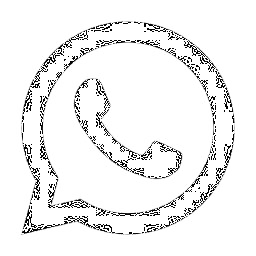
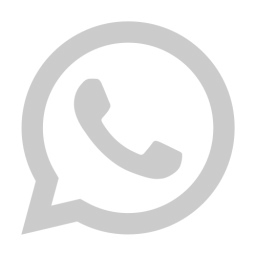
small cosmetic adjustments

Changed region(s): [[0.0625, 0.0625, 0.9375, 0.9375], [0.2812, 0.2812, 0.7188, 0.7188]]

diff --git a/index.html b/index.html
@@ -503,7 +503,7 @@
     <div class="cta cta_whatsapp">
         <div class="inner_container">
             <a class="whatsapp_link" href="https://chat.whatsapp.com/KfSb04KgHB6EKp1342kR94?mode=gi_t" target="_blank" rel="noopener" aria-label="WhatsApp-Gruppe beitreten">
-                <img class="profile" src="media/PublicWhatsAppChannel.jpg" alt="WhatsApp-Gruppe Agora - PPE Network - Interessierte" loading="lazy">
+                <img class="profile" src="media/WhatsAppInteressierte.png" alt="WhatsApp-Gruppe Agora - PPE Network - Interessierte" loading="lazy">
             </a>
             <div class="intro">
                 <div class="social_media">

diff --git a/css/style.css b/css/style.css
@@ -1038,6 +1038,7 @@ header{
     width: var(--download_button_width);
     height: var(--download_button_height);
     background-color: #5E2028;
+    border-radius: 9999px;
     display: flex;
     flex-direction: row;
     justify-content: center;
